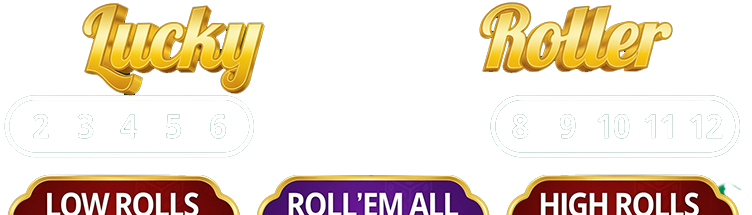
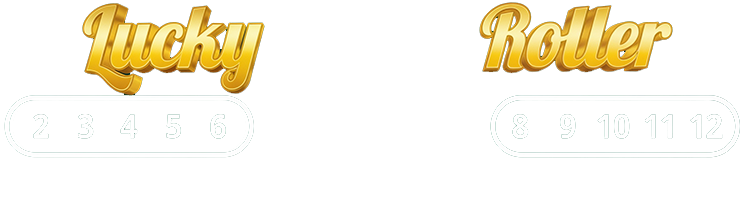
Fix the real cause of Lucky Roller's corner shading: a duplicate art layer
Not a CSS issue at all -- verified live that #bbonus-low/#bbonus-all-bar/
#bbonus-high have no box-shadow/filter/background-color of their own.
LR_LAYOUT positions #lr-title-art (LuckyRollerTitle.png) tall enough to
overlap the individual Low/Roll'Em All/High Rolls box row underneath it,
and that title art image ALREADY has its own copy of those three plaques
baked into its bottom ~57px (rows 158-214 of the 752x215 source) -- drawn
as a second, slightly-misaligned layer directly behind the real interactive
box art, bleeding out as dark shading around the edges where the two didn't
line up. Cropped that redundant bottom section out of LuckyRollerTitle.png
(transparent past row 157 now) rather than touching any CSS geometry, so
the Lucky/Roller text + number-oval capsules render exactly as before and
the real box art underneath is no longer fighting a duplicate.

Changed region(s): [[0.0, 0.8093, 1.0, 1.0]]

diff --git a/focusmode.html b/focusmode.html
@@ -1727,7 +1727,7 @@ body.portrait-craps #felt-portrait{display:flex}
         <div class="chip" data-val="50" onclick="selectChip(50)">$50</div>
         <div class="chip" data-val="100" onclick="selectChip(100)">$100</div>
         <div style="flex:1;display:flex;align-items:center;justify-content:center">
-          <span id="version-tag" style="font-size:10px;color:rgba(255,255,255,.35);letter-spacing:.04em">Ver. 1.0.26</span>
+          <span id="version-tag" style="font-size:10px;color:rgba(255,255,255,.35);letter-spacing:.04em">Ver. 1.0.27</span>
         </div>
         <span id="hud-pnl" style="font-size:21px;font-weight:700;color:#7ee87e;flex-shrink:0;padding:0 4px">+$0.00</span>
         <button class="bar-btn danger" onclick="clearRemovable()">Clear</button>
